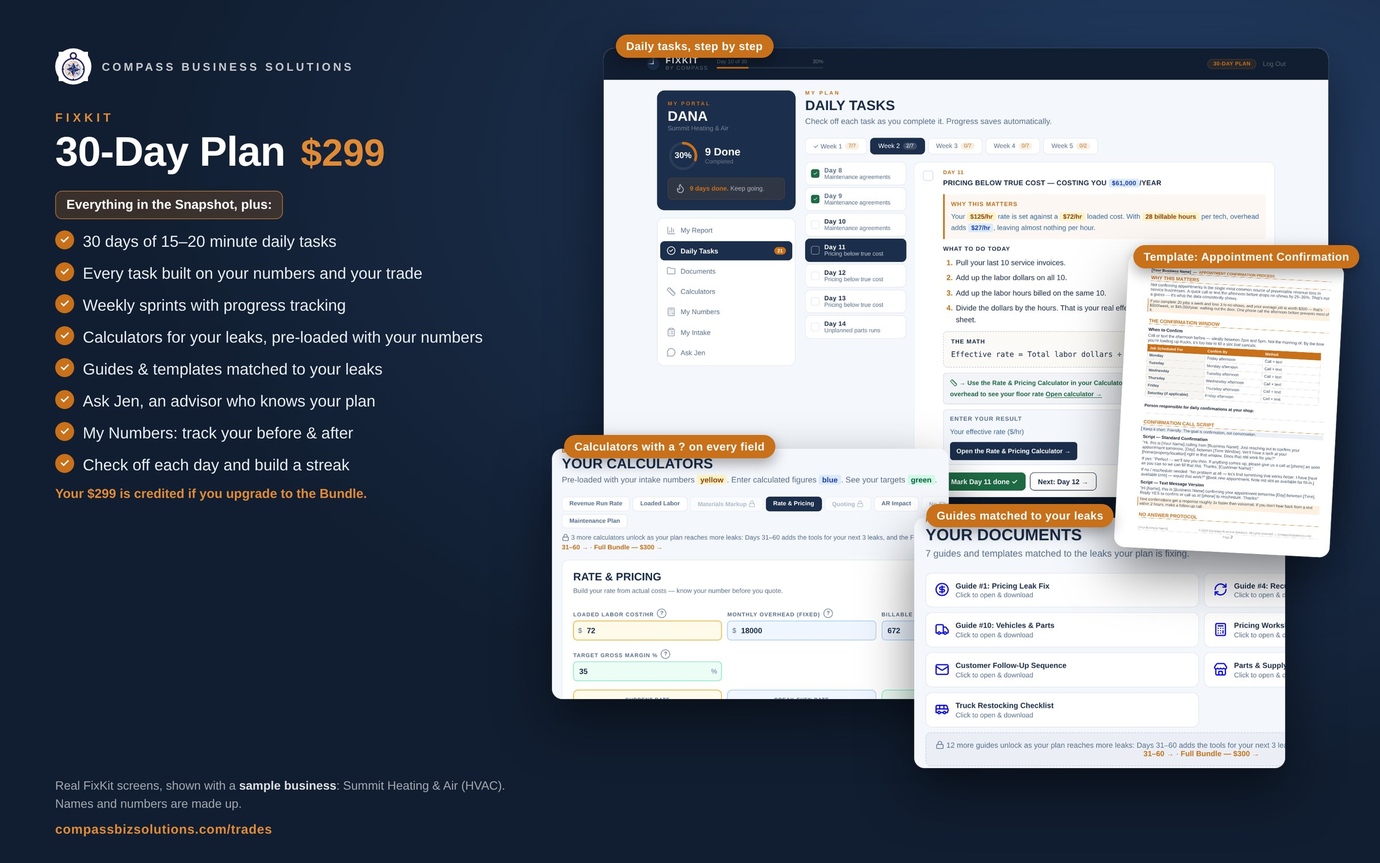
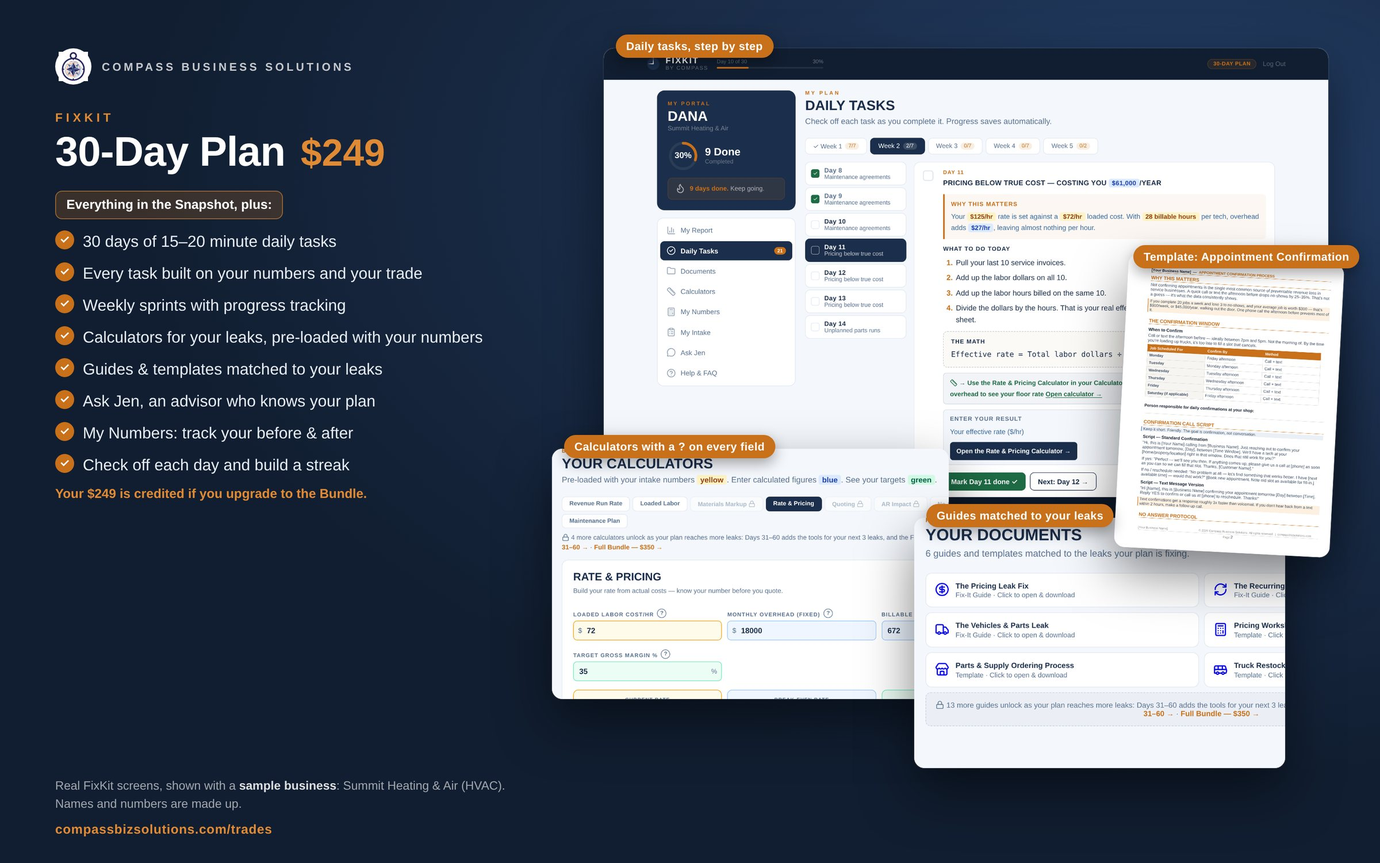
FixKit prices: 30-Day and each add-on $249
- 30-Day Plan $299 -> $249; Days 31-60 and 61-90 $299 -> $249
- Snapshot -> 30-Day upgrade $199 -> $150; 30-Day -> Bundle $300 -> $350
- Bundle stays $599 (now saves $148); Snapshot -> Bundle stays $499
FieldKit, ReviewKit and BuildKit prices untouched.

Claude-Session: https://claude.ai/code/session_01WwEVaVYbHA8J9JLdtXs8jg

diff --git a/trades/index.html b/trades/index.html
@@ -516,7 +516,7 @@ footer{background:#0d1622;padding:28px 24px}
           <button class="btn btn-outline" onclick="openCheckout('snapshot','Profit Leak Snapshot — $99')" style="width:100%;text-align:center">Get My Snapshot — $99</button>
         </div>
         <div class="product-card featured">
-          <span class="product-tag tag-amber">Most Popular · $299</span>
+          <span class="product-tag tag-amber">Most Popular · $249</span>
           <div class="product-icon"><svg class="ico" viewBox="0 0 24 24" fill="none" stroke="currentColor" stroke-width="2" stroke-linecap="round" stroke-linejoin="round" aria-hidden="true"><rect width="8" height="4" x="8" y="2" rx="1" ry="1" /> <path d="M16 4h2a2 2 0 0 1 2 2v14a2 2 0 0 1-2 2H6a2 2 0 0 1-2-2V6a2 2 0 0 1 2-2h2" /> <path d="M12 11h4" /> <path d="M12 16h4" /> <path d="M8 11h.01" /> <path d="M8 16h.01" /></svg></div>
           <div class="product-name">FixKit 30-Day Plan</div>
           <button type="button" class="plan-peek" onclick="openPeek(1)" aria-label="See what's inside the FixKit 30-Day Plan">
@@ -534,10 +534,10 @@ footer{background:#0d1622;padding:28px 24px}
             <li>Ask Jen, an advisor who knows your plan</li>
             <li>My Numbers: track your before &amp; after</li>
             <li>Check off each day and build a streak</li>
-            <li class="note">Your $299 is credited if you upgrade to the Bundle</li>
-            <li class="note">Already have a Snapshot? $199 with your upgrade link</li>
+            <li class="note">Your $249 is credited if you upgrade to the Bundle</li>
+            <li class="note">Already have a Snapshot? $150 with your upgrade link</li>
           </ul>
-          <button class="btn btn-amber" onclick="openCheckout('fixkit_30','FixKit 30-Day Plan — $299')" style="width:100%;text-align:center">Get 30-Day Plan — $299</button>
+          <button class="btn btn-amber" onclick="openCheckout('fixkit_30','FixKit 30-Day Plan — $249')" style="width:100%;text-align:center">Get 30-Day Plan — $249</button>
         </div>
         <div class="product-card">
           <span class="product-tag tag-amber">Best Value · $599</span>
@@ -558,14 +558,14 @@ footer{background:#0d1622;padding:28px 24px}
             <li>Days 61–90: systems that make the gains stick</li>
             <li>Before &amp; after numbers to prove results</li>
             <li>Ask Jen for all 90 days</li>
-            <li>Saves $298 vs. buying phases separately</li>
+            <li>Saves $148 vs. buying phases separately</li>
             <li class="note">Already have a Snapshot? $499 with your upgrade link</li>
           </ul>
           <button class="btn btn-dark" onclick="openCheckout('fixkit_bundle','FixKit Complete Bundle — $599')" style="width:100%;text-align:center">Get Full Bundle — $599</button>
         </div>
       </div>
       <div style="text-align:center;margin-top:20px">
-        <p style="font-size:13px;color:var(--amber);font-weight:600">Already have a Snapshot? <strong>Your $99 is credited</strong>: the 30-Day Plan is $199 and the Bundle is $499. Upgrade links are in your Snapshot email.</p>
+        <p style="font-size:13px;color:var(--amber);font-weight:600">Already have a Snapshot? <strong>Your $99 is credited</strong>: the 30-Day Plan is $150 and the Bundle is $499. Upgrade links are in your Snapshot email.</p>
       </div>
 
       <div style="margin-top:40px;padding:28px;background:var(--light);border-radius:12px;border-left:4px solid var(--amber)">
@@ -697,7 +697,7 @@ footer{background:#0d1622;padding:28px 24px}
     <h3>Ready for the Full Plan?</h3>
     <p>As a Snapshot owner, the $99 you paid is credited toward your plan. The discount is built into the upgrade price — no code needed.</p>
     <div style="display:flex;flex-direction:column;gap:10px">
-      <button class="btn btn-amber" onclick="openCheckout('snapshot_up_30','FixKit 30-Day — $199');closeModal('upgrade-modal')" style="width:100%;text-align:center">FixKit 30-Day — $199 →</button>
+      <button class="btn btn-amber" onclick="openCheckout('snapshot_up_30','FixKit 30-Day — $150');closeModal('upgrade-modal')" style="width:100%;text-align:center">FixKit 30-Day — $150 →</button>
       <button class="btn btn-ghost" onclick="openCheckout('snapshot_up_bun','FixKit Bundle — $499');closeModal('upgrade-modal')" style="width:100%;text-align:center;border-color:rgba(255,255,255,0.15)">Full Bundle — $499</button>
     </div>
   </div>
@@ -787,8 +787,8 @@ const DOCS_DATA = [
 
 const SERVICES_DATA = [
   {icon:'<svg class="ico" viewBox="0 0 24 24" fill="none" stroke="currentColor" stroke-width="2" stroke-linecap="round" stroke-linejoin="round" aria-hidden="true"><path d="m21 21-4.34-4.34" /> <circle cx="11" cy="11" r="8" /></svg>',title:'Free Business Diagnostic',tag:'Free',tagClass:'tag-green',short:'Find out where your money is going. No strings attached.',bullets:['Your top three profit leaks — specific to your trade and numbers','An estimated annual dollar range for each one','What is causing them and what it takes to fix each one'],closing:"What you do with it is entirely up to you. Some people fix it themselves. Some want help. Some just needed to see the number.",cta:'Start Free Diagnostic',onclick:"showPage('home');scrollToEl('diagnostic')"},
-  {icon:'<svg class="ico" viewBox="0 0 24 24" fill="none" stroke="currentColor" stroke-width="2" stroke-linecap="round" stroke-linejoin="round" aria-hidden="true"><path d="M16 7h6v6" /> <path d="m22 7-8.5 8.5-5-5L2 17" /></svg>',title:'FixKit — Complete 30/60/90-Day Plan',tag:'$599 — saves $298',tagClass:'tag-amber',short:'All three phases. Fully sequenced. Every leak addressed. Best value.',bullets:['Days 1-30 — top 3 leaks with daily tasks, calculators, guides, and docs','Days 31-60 — next tier of leaks, their own 30-day plan','Days 61-90 — remaining leaks closed out completely','All docs and calculators unlocked from day one','Full before/after tracking across all 90 days','Ask Jen AI advisor throughout','Saves $298 vs buying phases separately'],cta:"Get the Full Bundle — $599",onclick:"openCheckout('fixkit_bundle','FixKit Complete Bundle — $599')"},
-  {icon:'<svg class="ico" viewBox="0 0 24 24" fill="none" stroke="currentColor" stroke-width="2" stroke-linecap="round" stroke-linejoin="round" aria-hidden="true"><rect width="8" height="4" x="8" y="2" rx="1" ry="1" /> <path d="M16 4h2a2 2 0 0 1 2 2v14a2 2 0 0 1-2 2H6a2 2 0 0 1-2-2V6a2 2 0 0 1 2-2h2" /> <path d="M12 11h4" /> <path d="M12 16h4" /> <path d="M8 11h.01" /> <path d="M8 16h.01" /></svg>',title:'FixKit — 30-Day Quick Win Plan',tag:'$299',tagClass:'tag-amber',short:'Your worst leaks addressed first. Daily tasks. Built-in tracking. AI support.',bullets:['30 days of daily tasks — 15-20 minutes, specific to your trade and your numbers','Fix-It Guides and process docs matched to your top leaks','8 profit calculators pre-loaded with your intake numbers','Progress tracking and before/after dashboard','Ask Jen — AI advisor that knows your situation','Already have a Snapshot? $199 with your upgrade link'],cta:"Get the 30-Day Plan — $299",onclick:"openCheckout('fixkit_30','FixKit 30-Day Plan — $299')"},
+  {icon:'<svg class="ico" viewBox="0 0 24 24" fill="none" stroke="currentColor" stroke-width="2" stroke-linecap="round" stroke-linejoin="round" aria-hidden="true"><path d="M16 7h6v6" /> <path d="m22 7-8.5 8.5-5-5L2 17" /></svg>',title:'FixKit — Complete 30/60/90-Day Plan',tag:'$599 — saves $148',tagClass:'tag-amber',short:'All three phases. Fully sequenced. Every leak addressed. Best value.',bullets:['Days 1-30 — top 3 leaks with daily tasks, calculators, guides, and docs','Days 31-60 — next tier of leaks, their own 30-day plan','Days 61-90 — remaining leaks closed out completely','All docs and calculators unlocked from day one','Full before/after tracking across all 90 days','Ask Jen AI advisor throughout','Saves $148 vs buying phases separately'],cta:"Get the Full Bundle — $599",onclick:"openCheckout('fixkit_bundle','FixKit Complete Bundle — $599')"},
+  {icon:'<svg class="ico" viewBox="0 0 24 24" fill="none" stroke="currentColor" stroke-width="2" stroke-linecap="round" stroke-linejoin="round" aria-hidden="true"><rect width="8" height="4" x="8" y="2" rx="1" ry="1" /> <path d="M16 4h2a2 2 0 0 1 2 2v14a2 2 0 0 1-2 2H6a2 2 0 0 1-2-2V6a2 2 0 0 1 2-2h2" /> <path d="M12 11h4" /> <path d="M12 16h4" /> <path d="M8 11h.01" /> <path d="M8 16h.01" /></svg>',title:'FixKit — 30-Day Quick Win Plan',tag:'$249',tagClass:'tag-amber',short:'Your worst leaks addressed first. Daily tasks. Built-in tracking. AI support.',bullets:['30 days of daily tasks — 15-20 minutes, specific to your trade and your numbers','Fix-It Guides and process docs matched to your top leaks','8 profit calculators pre-loaded with your intake numbers','Progress tracking and before/after dashboard','Ask Jen — AI advisor that knows your situation','Already have a Snapshot? $150 with your upgrade link'],cta:"Get the 30-Day Plan — $249",onclick:"openCheckout('fixkit_30','FixKit 30-Day Plan — $249')"},
   {icon:'<svg class="ico" viewBox="0 0 24 24" fill="none" stroke="currentColor" stroke-width="2" stroke-linecap="round" stroke-linejoin="round" aria-hidden="true"><path d="M6 22a2 2 0 0 1-2-2V4a2 2 0 0 1 2-2h8a2.4 2.4 0 0 1 1.704.706l3.588 3.588A2.4 2.4 0 0 1 20 8v12a2 2 0 0 1-2 2z" /> <path d="M14 2v5a1 1 0 0 0 1 1h5" /> <path d="M10 9H8" /> <path d="M16 13H8" /> <path d="M16 17H8" /></svg>',title:'DIY Profit Leak Snapshot',tag:'$99',tagClass:'tag-navy',short:'Your top 3 leaks, the math behind each one, and what to fix — plus the tools to do it.',bullets:['Top 3 leaks ranked by annual dollar impact','Exact math showing what each leak costs you','2-3 specific fixes for each leak — not generic advice','Fix-It Guides and process templates matched to your leaks','The $99 is credited toward a FixKit plan if you upgrade'],closing:'No portal, no daily tasks, no subscription. Your numbers, your leaks, and what to do about them — plus the tools to get started.',cta:"Get My Snapshot — $99",onclick:"openCheckout('snapshot','Profit Leak Snapshot — $99')"},
   {icon:'<svg class="ico" viewBox="0 0 24 24" fill="none" stroke="currentColor" stroke-width="2" stroke-linecap="round" stroke-linejoin="round" aria-hidden="true"><path d="m15 12-9.373 9.373a1 1 0 0 1-3.001-3L12 9" /> <path d="m18 15 4-4" /> <path d="m21.5 11.5-1.914-1.914A2 2 0 0 1 19 8.172v-.344a2 2 0 0 0-.586-1.414l-1.657-1.657A6 6 0 0 0 12.516 3H9l1.243 1.243A6 6 0 0 1 12 8.485V10l2 2h1.172a2 2 0 0 1 1.414.586L18.5 14.5" /></svg>',title:'Done For You — Consulting',tag:'By scope',tagClass:'tag-slate',short:'We build and implement the systems for you.',bullets:['We map how your business actually runs — not how it should run','We build the process docs, pricing structures, and workflows','You review, we refine, it gets done','Scoping call is free with no commitment','Payment plans available'],cta:"Book a Free Scoping Call",onclick:"window.open('https://calendly.com/jvoiselle612-s9gb/free-scoping-call','_blank')"},
   {icon:'<svg class="ico" viewBox="0 0 24 24" fill="none" stroke="currentColor" stroke-width="2" stroke-linecap="round" stroke-linejoin="round" aria-hidden="true"><path d="M10 12h4" /> <path d="M10 8h4" /> <path d="M14 21v-3a2 2 0 0 0-4 0v3" /> <path d="M6 10H4a2 2 0 0 0-2 2v7a2 2 0 0 0 2 2h16a2 2 0 0 0 2-2V9a2 2 0 0 0-2-2h-2" /> <path d="M6 21V5a2 2 0 0 1 2-2h8a2 2 0 0 1 2 2v16" /></svg>',title:'BuildKit — Launch Any Business Right',tag:'Coming November 2026',tagClass:'tag-green',short:'Build any business right from day one — legal, financial, marketing, and operations done right before the bad habits set in.',bullets:['Business foundation: entity setup, insurance, EIN, bank account','Pricing from scratch: your real hourly cost + target margin calculator','First 10 customers: exactly where to find them and how to close them','Day-one systems: invoicing, confirmation process, parts tracking','90-day week-by-week launch plan tuned to your trade'],closing:'Most trades businesses fail not because the owner was bad at the work — but because nobody taught them how to run a business. BuildKit fixes that from day one. $199 one-time.',cta:'Join BuildKit Waitlist',onclick:"window.location.href='/buildkit#waitlist'"},
@@ -1288,7 +1288,7 @@ function showResults(parsed, email) {
     + '  </div>'
     + '  <div class="paywall-card paywall-card--fixkit featured">'
     + '    <div class="paywall-badge">Most Popular</div>'
-    + '    <div class="paywall-price">$299</div>'
+    + '    <div class="paywall-price">$249</div>'
     + '    <div class="paywall-name">FixKit 30-Day Plan</div>'
     + '    <button type="button" class="plan-peek" onclick="openPeek(1)" aria-label="See what\'s inside the FixKit 30-Day Plan"><img src="/images/fixkit/30-day-thumb.jpg" alt="Screens from the FixKit 30-Day Plan: sample business" loading="lazy" width="800" height="500"><span>See what\'s inside</span></button>'
     + '    <div class="paywall-desc">Daily tasks, templates, and tracking to close your top 3 leaks in 30 days.</div>'
@@ -1299,7 +1299,7 @@ function showResults(parsed, email) {
     + '    <div class="paywall-price">$599</div>'
     + '    <div class="paywall-name">FixKit Complete Bundle</div>'
     + '    <button type="button" class="plan-peek" onclick="openPeek(2)" aria-label="See what\'s inside the FixKit Complete Bundle"><img src="/images/fixkit/bundle-thumb.jpg" alt="Screens from the FixKit Complete Bundle: sample business" loading="lazy" width="800" height="500"><span>See what\'s inside</span></button>'
-    + '    <div class="paywall-desc">All 12 leak categories closed over 90 days. Saves $298 vs buying phases separately.</div>'
+    + '    <div class="paywall-desc">All 12 leak categories closed over 90 days. Saves $148 vs buying phases separately.</div>'
     + '    <button class="btn btn-dark paywall-btn" id="results-btn-bundle">Get Full Bundle</button>'
     + '  </div>'
     + '</div>'
@@ -1312,7 +1312,7 @@ function showResults(parsed, email) {
     openCheckout('snapshot', 'Profit Leak Snapshot — $99');
   });
   document.getElementById('results-btn-fixkit').addEventListener('click', function() {
-    openCheckout('fixkit_30', 'FixKit 30-Day — $299');
+    openCheckout('fixkit_30', 'FixKit 30-Day — $249');
   });
   document.getElementById('results-btn-bundle').addEventListener('click', function() {
     openCheckout('fixkit_bundle', 'FixKit Complete Bundle — $599');
@@ -1385,7 +1385,7 @@ function openModal(id) { document.getElementById(id).classList.add('open'); }
 // ── Plan previews (full-screen viewer) ──
 var PEEKS=[
   {slug:'snapshot',label:'Profit Leak Snapshot — $99'},
-  {slug:'30-day',label:'FixKit 30-Day Plan — $299'},
+  {slug:'30-day',label:'FixKit 30-Day Plan — $249'},
   {slug:'bundle',label:'FixKit Complete Bundle — $599'}
 ];
 var peekIdx=0;
@@ -1524,7 +1524,7 @@ renderServices();
   var params = new URLSearchParams(window.location.search);
   var buy = params.get('buy');
   if (buy === 'snapshot') openCheckout('snapshot', 'Profit Leak Snapshot — $99');
-  else if (buy === '30day') openCheckout('pri_01km957nv9t0wgnb7rxrpzmrkv', 'FixKit 30-Day Plan — $299');
+  else if (buy === '30day') openCheckout('pri_01km957nv9t0wgnb7rxrpzmrkv', 'FixKit 30-Day Plan — $249');
   else if (buy === 'bundle') openCheckout('pri_01km95651yv87n7bkktg2fmzna', 'FixKit Complete Bundle — $599');
   
   // Handle token in URL (post-purchase)

diff --git a/api/send-diagnostic.js b/api/send-diagnostic.js
@@ -216,7 +216,7 @@ module.exports = async function handler(req, res) {
                 <div style="font-size:24px;font-weight:bold;color:#1B2E4B;flex-shrink:0;margin-left:12px;">$99</div>
               </div>
               <div style="font-size:14px;color:#3E4E63;line-height:1.75;margin-bottom:12px;">
-                Deep intake → your top 3 leaks with exact math, 2-3 specific fixes for each one, and Fix-It Guides matched to your leaks. If you decide to upgrade, <strong>the $99 you paid is credited toward your plan</strong>: the 30-Day Plan is $199 and the Full Bundle is $499. Upgrade links come in your Snapshot email.
+                Deep intake → your top 3 leaks with exact math, 2-3 specific fixes for each one, and Fix-It Guides matched to your leaks. If you decide to upgrade, <strong>the $99 you paid is credited toward your plan</strong>: the 30-Day Plan is $150 and the Full Bundle is $499. Upgrade links come in your Snapshot email.
               </div>
               <a href="https://buy.stripe.com/6oU28kfwo27GbWT2l8dZ608" style="display:inline-block;background:#1B2E4B;color:white;font-weight:bold;font-size:14px;padding:11px 24px;border-radius:8px;text-decoration:none;">Get My Snapshot — $99 →</a>
             </div>
@@ -229,17 +229,17 @@ module.exports = async function handler(req, res) {
                   <div style="font-size:15px;font-weight:bold;color:#1A2332;">FixKit — 30-Day Plan</div>
                   <div style="font-size:13px;color:#6B7A90;margin-top:2px;">Daily tasks. Built-in calculators. AI support.</div>
                 </div>
-                <div style="font-size:24px;font-weight:bold;color:#C8701A;flex-shrink:0;margin-left:12px;">$299</div>
+                <div style="font-size:24px;font-weight:bold;color:#C8701A;flex-shrink:0;margin-left:12px;">$249</div>
               </div>
               <div style="font-size:14px;color:#3E4E63;line-height:1.75;margin-bottom:12px;">
-                30 days of daily tasks (15 min/day) built around your specific leaks and your numbers. Calculators pre-loaded. Fix-It Guides matched to your leaks. Ask Jen AI advisor. If you decide to upgrade, <strong>the $299 you paid is credited toward the Full Bundle</strong> (Days 31-90 for $300). <span style="color:#6B7A90;">Already bought a Snapshot? Use the upgrade link in your Snapshot email to get this plan for $199.</span>
+                30 days of daily tasks (15 min/day) built around your specific leaks and your numbers. Calculators pre-loaded. Fix-It Guides matched to your leaks. Ask Jen AI advisor. If you decide to upgrade, <strong>the $249 you paid is credited toward the Full Bundle</strong> (Days 31-90 for $350). <span style="color:#6B7A90;">Already bought a Snapshot? Use the upgrade link in your Snapshot email to get this plan for $150.</span>
               </div>
-              <a href="https://buy.stripe.com/14A28k9809A8gd9gbYdZ609" style="display:inline-block;background:#C8701A;color:white;font-weight:bold;font-size:14px;padding:11px 24px;border-radius:8px;text-decoration:none;">Get the 30-Day Plan — $299 →</a>
+              <a href="https://buy.stripe.com/14A28k9809A8gd9gbYdZ609" style="display:inline-block;background:#C8701A;color:white;font-weight:bold;font-size:14px;padding:11px 24px;border-radius:8px;text-decoration:none;">Get the 30-Day Plan — $249 →</a>
             </div>
 
             <!-- Full Bundle -->
             <div style="background:white;border:1px solid #C8701A;border-radius:8px;padding:18px 20px;margin-bottom:12px;position:relative;">${mark(4)}
-              <div style="display:inline-block;background:#1B2E4B;color:white;font-size:10px;font-weight:bold;letter-spacing:1.5px;padding:2px 10px;border-radius:99px;margin-bottom:10px;">BEST VALUE — SAVES $298</div>
+              <div style="display:inline-block;background:#1B2E4B;color:white;font-size:10px;font-weight:bold;letter-spacing:1.5px;padding:2px 10px;border-radius:99px;margin-bottom:10px;">BEST VALUE — SAVES $148</div>
               <div style="display:flex;justify-content:space-between;align-items:flex-start;margin-bottom:10px;">
                 <div>
                   <div style="font-size:15px;font-weight:bold;color:#1A2332;">FixKit — Complete 30/60/90-Day Plan</div>
@@ -248,7 +248,7 @@ module.exports = async function handler(req, res) {
                 <div style="font-size:24px;font-weight:bold;color:#C8701A;flex-shrink:0;margin-left:12px;">$599</div>
               </div>
               <div style="font-size:14px;color:#3E4E63;line-height:1.75;margin-bottom:12px;">
-                All 90 days unlocked from day one. Every doc and calculator included. Ask Jen AI advisor included. Saves $298 vs buying phases separately. <span style="color:#6B7A90;">Already bought a Snapshot? Use the upgrade link in your Snapshot email to get the bundle for $499.</span>
+                All 90 days unlocked from day one. Every doc and calculator included. Ask Jen AI advisor included. Saves $148 vs buying phases separately. <span style="color:#6B7A90;">Already bought a Snapshot? Use the upgrade link in your Snapshot email to get the bundle for $499.</span>
               </div>
               <a href="https://buy.stripe.com/6oU00c1Fy7s0bWT2l8dZ60f" style="display:inline-block;background:#C8701A;color:white;font-weight:bold;font-size:14px;padding:11px 24px;border-radius:8px;text-decoration:none;">Get the Full Bundle — $599 →</a>
             </div>

diff --git a/pricing/index.html b/pricing/index.html
@@ -265,9 +265,9 @@ body{font-family:'DM Sans',sans-serif;background:var(--light);color:var(--navy)}
     <tbody>
       <tr><td><div class="pt-name">Free Profit Leak Diagnostic</div><div class="pt-desc">21 questions. Top 3 leaks with dollar estimates. No purchase required.</div></td><td><div class="pt-price pt-free">FREE</div></td></tr>
       <tr><td><div class="pt-name">Profit Leak Snapshot</div><div class="pt-desc">Top 3 leaks, exact math, specific fixes, matched guides and docs.</div></td><td><div class="pt-price">$99</div><div class="pt-price-sub">one-time</div></td></tr>
-      <tr class="row-highlight"><td><div class="pt-name">FixKit 30-Day Plan <span class="bdg bdg-pop">Most Popular</span></div><div class="pt-desc">30 days of daily tasks, calculators and docs matched to your leaks, Ask Jen AI advisor.</div></td><td><div class="pt-price">$299</div><div class="pt-price-sub">$199 from Snapshot</div></td></tr>
-      <tr><td><div class="pt-name">FixKit Days 31–60 / Days 61–90</div><div class="pt-desc">Additional phases addressing leaks 4–9.</div></td><td><div class="pt-price">$299</div><div class="pt-price-sub">each · one-time</div></td></tr>
-      <tr class="row-highlight"><td><div class="pt-name">Complete Bundle — All 90 Days <span class="bdg bdg-val">Saves $298</span></div><div class="pt-desc">All three phases from day one. Every doc and calculator unlocked.</div></td><td><div class="pt-price">$599</div><div class="pt-price-sub">$499 from Snapshot</div></td></tr>
+      <tr class="row-highlight"><td><div class="pt-name">FixKit 30-Day Plan <span class="bdg bdg-pop">Most Popular</span></div><div class="pt-desc">30 days of daily tasks, calculators and docs matched to your leaks, Ask Jen AI advisor.</div></td><td><div class="pt-price">$249</div><div class="pt-price-sub">$150 from Snapshot</div></td></tr>
+      <tr><td><div class="pt-name">FixKit Days 31–60 / Days 61–90</div><div class="pt-desc">Additional phases addressing leaks 4–9.</div></td><td><div class="pt-price">$249</div><div class="pt-price-sub">each · one-time</div></td></tr>
+      <tr class="row-highlight"><td><div class="pt-name">Complete Bundle — All 90 Days <span class="bdg bdg-val">Saves $148</span></div><div class="pt-desc">All three phases from day one. Every doc and calculator unlocked.</div></td><td><div class="pt-price">$599</div><div class="pt-price-sub">$499 from Snapshot</div></td></tr>
     </tbody>
   </table>
 </div>

diff --git a/terms-and-conditions.html b/terms-and-conditions.html
@@ -54,7 +54,7 @@
 <div class="section">
     <div class="section-title">Our Products and Services</div>
     <p>We offer the following products:</p>
-    <ul><li><strong>Profit Leak Snapshot ($99)</strong> — A digital diagnostic tool that analyzes your business operations intake and generates a report identifying profit leaks and recommended fixes. Delivered digitally.</li><li><strong>FixKit 30-Day Plan ($299)</strong> — A structured 30-day business improvement program delivered through our online portal, including daily tasks, guides, templates, and AI-assisted planning.</li><li><strong>FixKit Bundle ($599)</strong> — An extended 90-day program combining the full FixKit plan with additional resources and templates.</li><li><strong>Individual Document Templates</strong> — Standalone business process documents available for individual purchase.</li><li><strong>Consulting Services</strong> — Custom engagements priced separately and governed by individual agreements.</li></ul>
+    <ul><li><strong>Profit Leak Snapshot ($99)</strong> — A digital diagnostic tool that analyzes your business operations intake and generates a report identifying profit leaks and recommended fixes. Delivered digitally.</li><li><strong>FixKit 30-Day Plan ($249)</strong> — A structured 30-day business improvement program delivered through our online portal, including daily tasks, guides, templates, and AI-assisted planning.</li><li><strong>FixKit Bundle ($599)</strong> — An extended 90-day program combining the full FixKit plan with additional resources and templates.</li><li><strong>Individual Document Templates</strong> — Standalone business process documents available for individual purchase.</li><li><strong>Consulting Services</strong> — Custom engagements priced separately and governed by individual agreements.</li></ul>
     <p>All digital products are delivered via access to our online portal. No physical goods are shipped.</p>
   </div>
 <div class="section">

diff --git a/api/generate-report.js b/api/generate-report.js
@@ -266,12 +266,12 @@ This is the FREE diagnostic. It shows TOP 3 leaks with dollar estimates and ligh
 - Step-by-step fix instructions (that's the $99 Snapshot)
 - Full analysis of all 12 categories (that's the $99 Snapshot)
 - Specific branded tool recommendations (that's the $99 Snapshot)
-- Daily task plans (that's the $299/$599 FixKit)
-- Calculators or templates (that's the $299/$599 FixKit)
+- Daily task plans (that's the $249/$599 FixKit)
+- Calculators or templates (that's the $249/$599 FixKit)
 
 Your job is to make the owner TRUST the diagnostic and SEE real value here, so they naturally want the deeper version. Do not over-deliver on the free tier or the paid tiers lose their purpose.
 
-ABSOLUTE RULE: The free diagnostic NEVER tells the owner what to do. Not even "obvious" moves. Not even "you could probably try X." Every fix — verbs, actions, steps, scripts, recommendations — lives behind the $99/$299/$599 paywall. The free tier names the leak, sizes the leak, and explains why it's happening. That's it. The owner's next move is to buy a fix plan or book a free scoping call.
+ABSOLUTE RULE: The free diagnostic NEVER tells the owner what to do. Not even "obvious" moves. Not even "you could probably try X." Every fix — verbs, actions, steps, scripts, recommendations — lives behind the $99/$249/$599 paywall. The free tier names the leak, sizes the leak, and explains why it's happening. That's it. The owner's next move is to buy a fix plan or book a free scoping call.
 
 ========================================================
 GUARDRAILS

diff --git a/refund-policy.html b/refund-policy.html
@@ -45,7 +45,7 @@
     <div class="callout"><p>Short version: any purchase can be refunded within 7 days, no questions asked. The fastest way is to ask Ask Jen in your FixKit portal. If something went wrong on our end, we'll always make it right.</p></div>
 <div class="section">
     <div class="section-title">7-Day Refunds</div>
-    <p>Every purchase from Compass Business Solutions can be refunded in full within 7 days of the purchase date. That includes the Profit Leak Snapshot ($99), the FixKit 30-Day Plan ($299), the Bundle ($599), upgrades, the Days 31–60 and Days 61–90 add-ons, and paid calls.</p>
+    <p>Every purchase from Compass Business Solutions can be refunded in full within 7 days of the purchase date. That includes the Profit Leak Snapshot ($99), the FixKit 30-Day Plan ($249), the Bundle ($599), upgrades, the Days 31–60 and Days 61–90 add-ons, and paid calls.</p>
     <p>For upgrades and add-ons, the 7 days start on the date of that purchase. Refunding an upgrade leaves you with what you had before it (for example, refunding the Bundle upgrade leaves you with your 30-Day Plan).</p>
     <p>When a purchase is refunded, access to it in the FixKit portal ends.</p>
   </div>

diff --git a/api/validate-upgrade.js b/api/validate-upgrade.js
@@ -63,7 +63,7 @@ module.exports = async function handler(req, res) {
       valid: true,
       email,
       discount: 100, // $100 off
-      thirtyDayPrice: 199,  // $299 - $100
+      thirtyDayPrice: 150,  // $249 - $99 (legacy endpoint)
       bundlePrice: 499,     // $599 - $100
       thirtyDayPriceId: "pri_01knjhxqg290q6q1h9m56j8tkc",
       bundlePriceId: "pri_01knjj1nr64jy967rgg4d8z49s",
